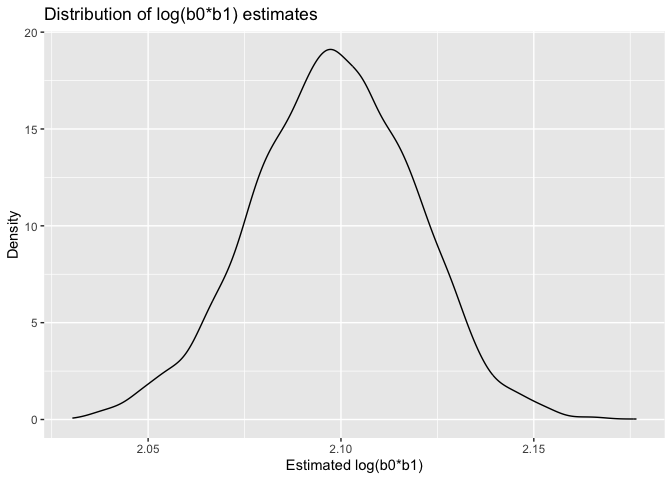
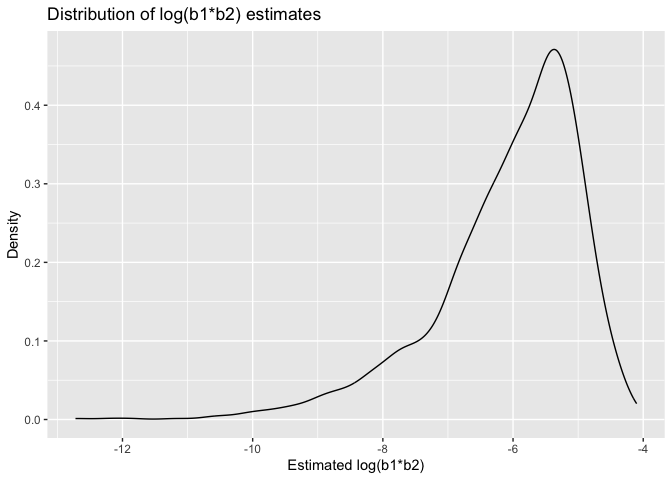
finish problem 2 and 3

diff --git a/p8105_hw6_jl6648.md b/p8105_hw6_jl6648.md
@@ -128,8 +128,16 @@ bootstrapped samples have an r.squared value around 0.92.
 
 ``` r
 boot_strap_log = boot_strap |> 
-   mutate(log = log(beta_0 * beta_1))
+   mutate(log = log(beta_1 * beta_2)) |>
+   drop_na()
+```
 
+    ## Warning: There was 1 warning in `mutate()`.
+    ## ℹ In argument: `log = log(beta_1 * beta_2)`.
+    ## Caused by warning in `log()`:
+    ## ! NaNs produced
+
+``` r
 log_cl = boot_strap_log |>
   select(log) |> 
   summarize(
@@ -143,9 +151,9 @@ log_cl
     ## # A tibble: 1 × 2
     ##   lower_ci upper_ci
     ##      <dbl>    <dbl>
-    ## 1     2.06     2.14
+    ## 1    -8.96    -4.56
 
-## Plot the distribution of $log(\widehat{\beta_0}*\widehat{\beta_1})$
+## Plot the distribution of $log(\widehat{\beta_1}*\widehat{\beta_2})$
 
 ``` r
 boot_strap_log |>
@@ -153,14 +161,159 @@ boot_strap_log |>
   ggplot(aes(x = log)) + 
   geom_density() + 
   labs(
-    title = "Distribution of log(b0*b1) estimates",
-    x = "Estimated log(b0*b1)",
+    title = "Distribution of log(b1*b2) estimates",
+    x = "Estimated log(b1*b2)",
     y = "Density"
   )
 ```
 
 ![](p8105_hw6_jl6648_files/figure-gfm/unnamed-chunk-8-1.png)<!-- -->
 
-The distribution of log(b0b1) is normal with a peak of 2.1, which means
-the majority of the bootstrapped samples have an log(b0b1) value around
-2.1
+The distribution of log(b1b2) is right-skewed with a peak of -5.5, which
+means the majority of the bootstrapped samples have an log(b0b1) value
+around -5.5.
+
+# problem 3
+
+``` r
+bw_df = 
+  read_csv("birthweight.csv")
+```
+
+    ## Rows: 4342 Columns: 20
+    ## ── Column specification ────────────────────────────────────────────────────────
+    ## Delimiter: ","
+    ## dbl (20): babysex, bhead, blength, bwt, delwt, fincome, frace, gaweeks, malf...
+    ## 
+    ## ℹ Use `spec()` to retrieve the full column specification for this data.
+    ## ℹ Specify the column types or set `show_col_types = FALSE` to quiet this message.
+
+## clean the data for regression analysis
+
+``` r
+bw =
+  bw_df |>
+  mutate(babysex = as.factor(babysex),
+         frace = as.factor(frace),
+         malform = as.factor(malform),
+         mrace = as.factor(mrace)) |>
+  janitor::clean_names() |> 
+  select(bwt,everything())
+```
+
+``` r
+sum(is.na(bw))
+```
+
+    ## [1] 0
+
+no missing value in this dataset.
+
+## fit the model
+
+I fit a MLR with all variables as predictor. According to the meaning of
+each variable, thay are all related with baby’s birth weight somehow.
+So, I decided to take all variables as predictor.
+
+``` r
+model_mlr = lm(bwt ~., data = bw)
+
+model_mlr |>
+    broom::tidy() |>
+    knitr::kable()
+```
+
+| term        |      estimate |   std.error |  statistic |   p.value |
+|:------------|--------------:|------------:|-----------:|----------:|
+| (Intercept) | -6265.3914076 | 660.4010631 | -9.4872522 | 0.0000000 |
+| babysex2    |    28.7073088 |   8.4652447 |  3.3911966 | 0.0007021 |
+| bhead       |   130.7781455 |   3.4523248 | 37.8811826 | 0.0000000 |
+| blength     |    74.9535780 |   2.0216656 | 37.0751613 | 0.0000000 |
+| delwt       |     4.1007326 |   0.3948202 | 10.3863301 | 0.0000000 |
+| fincome     |     0.2898207 |   0.1795416 |  1.6142265 | 0.1065513 |
+| frace2      |    14.3312853 |  46.1501283 |  0.3105362 | 0.7561682 |
+| frace3      |    21.2361118 |  69.2959907 |  0.3064551 | 0.7592729 |
+| frace4      |   -46.9962310 |  44.6782159 | -1.0518824 | 0.2929123 |
+| frace8      |     4.2969242 |  74.0740827 |  0.0580085 | 0.9537446 |
+| gaweeks     |    11.5493872 |   1.4653680 |  7.8815609 | 0.0000000 |
+| malform1    |     9.7649680 |  70.6258929 |  0.1382633 | 0.8900388 |
+| menarche    |    -3.5507723 |   2.8950777 | -1.2264860 | 0.2200827 |
+| mheight     |     9.7874130 |  10.3115672 |  0.9491683 | 0.3425881 |
+| momage      |     0.7593479 |   1.2221417 |  0.6213256 | 0.5344182 |
+| mrace2      |  -151.4354038 |  46.0453432 | -3.2888321 | 0.0010141 |
+| mrace3      |   -91.3866079 |  71.9189677 | -1.2706885 | 0.2039079 |
+| mrace4      |   -56.4787268 |  45.1368828 | -1.2512766 | 0.2109013 |
+| parity      |    95.5411137 |  40.4792711 |  2.3602479 | 0.0183069 |
+| pnumlbw     |            NA |          NA |         NA |        NA |
+| pnumsga     |            NA |          NA |         NA |        NA |
+| ppbmi       |     4.3537865 |  14.8913292 |  0.2923706 | 0.7700173 |
+| ppwt        |    -3.4715550 |   2.6121254 | -1.3290155 | 0.1839131 |
+| smoken      |    -4.8543629 |   0.5870549 | -8.2690107 | 0.0000000 |
+| wtgain      |            NA |          NA |         NA |        NA |
+
+## plot of model residuals against fitted values
+
+``` r
+ bw |> 
+  add_predictions(model_mlr) |>
+  add_residuals(model_mlr) |>
+  ggplot(aes(x = pred, y = resid)) +
+  geom_point() +
+  geom_smooth(method = "lm") +
+  labs(
+    title = "Residuals vs Fitted Values ", 
+    xlab("Fitted Value"),
+    ylab("Residuals"))
+```
+
+    ## Warning in predict.lm(model, data): prediction from rank-deficient fit; attr(*,
+    ## "non-estim") has doubtful cases
+
+    ## Warning in predict.lm(model, data): prediction from rank-deficient fit; attr(*,
+    ## "non-estim") has doubtful cases
+
+    ## `geom_smooth()` using formula = 'y ~ x'
+
+![](p8105_hw6_jl6648_files/figure-gfm/unnamed-chunk-13-1.png)<!-- -->
+
+## Compare your model to two others
+
+``` r
+cv_df = 
+  crossv_mc(bw, 100) |>
+  mutate(
+    train = map(train, as_tibble), 
+    test = map(test, as_tibble))
+```
+
+## plot all three models
+
+``` r
+cv_df |> 
+  mutate(
+    my_model  = map(train, ~lm(bwt ~., data = .x)),
+    model_2  = map(train, ~lm(bwt ~ gaweeks + blength, data = .x)),
+    model_3  = map(train, ~lm(bwt ~ bhead*blength*babysex, data = .x))) |>
+  mutate(
+    rmse_my_model = map2_dbl(my_model, test, ~rmse(model = .x, data = .y)),
+    rmse_2    = map2_dbl(model_2, test, ~rmse(model = .x, data = .y)),
+    rmse_3 = map2_dbl(model_3, test, ~rmse(model = .x, data = .y))) |>
+  select(starts_with("rmse")) %>%  
+  pivot_longer(
+    everything(),
+    names_to = "model", 
+    values_to = "rmse",
+    names_prefix = "rmse_") %>% 
+  mutate(model = fct_inorder(model)) %>% 
+  ggplot(aes(x = model, y = rmse)) + geom_violin(aes(fill = model))
+```
+
+    ## Warning: There were 100 warnings in `mutate()`.
+    ## The first warning was:
+    ## ℹ In argument: `rmse_my_model = map2_dbl(my_model, test, ~rmse(model = .x, data
+    ##   = .y))`.
+    ## Caused by warning in `predict.lm()`:
+    ## ! prediction from rank-deficient fit; attr(*, "non-estim") has doubtful cases
+    ## ℹ Run `dplyr::last_dplyr_warnings()` to see the 99 remaining warnings.
+
+![](p8105_hw6_jl6648_files/figure-gfm/unnamed-chunk-15-1.png)<!-- -->
